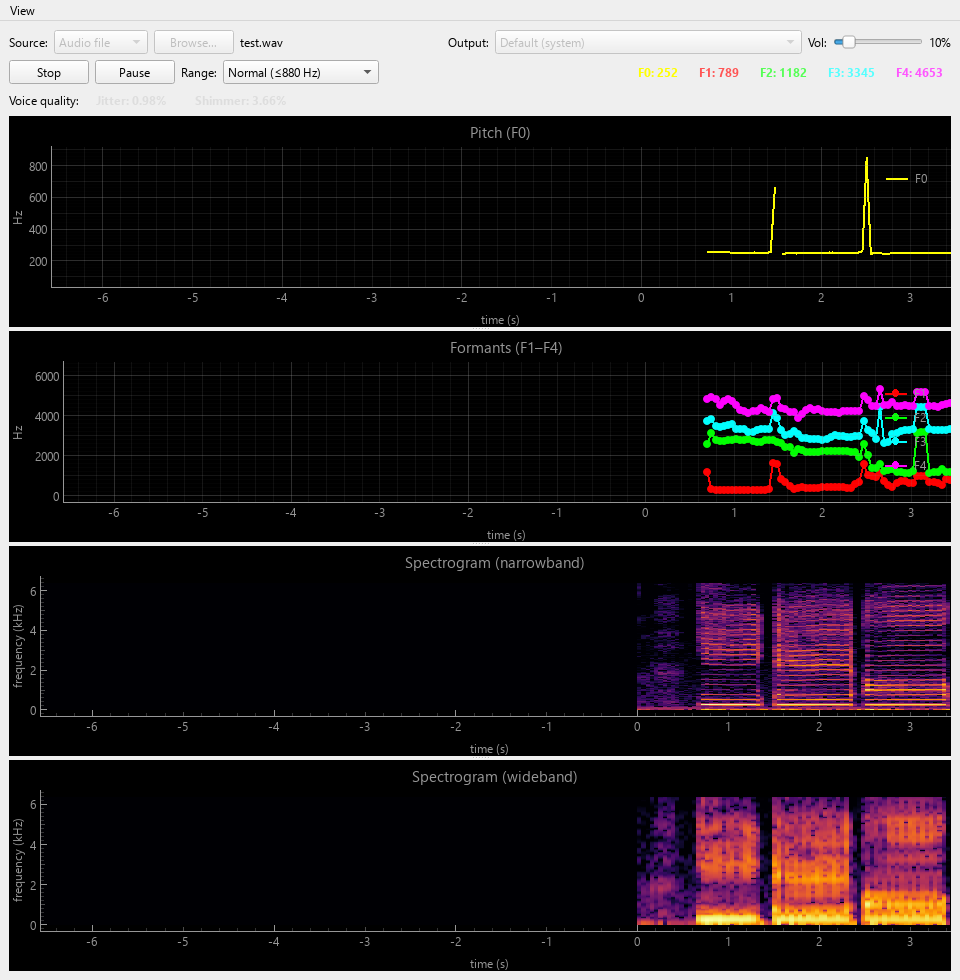
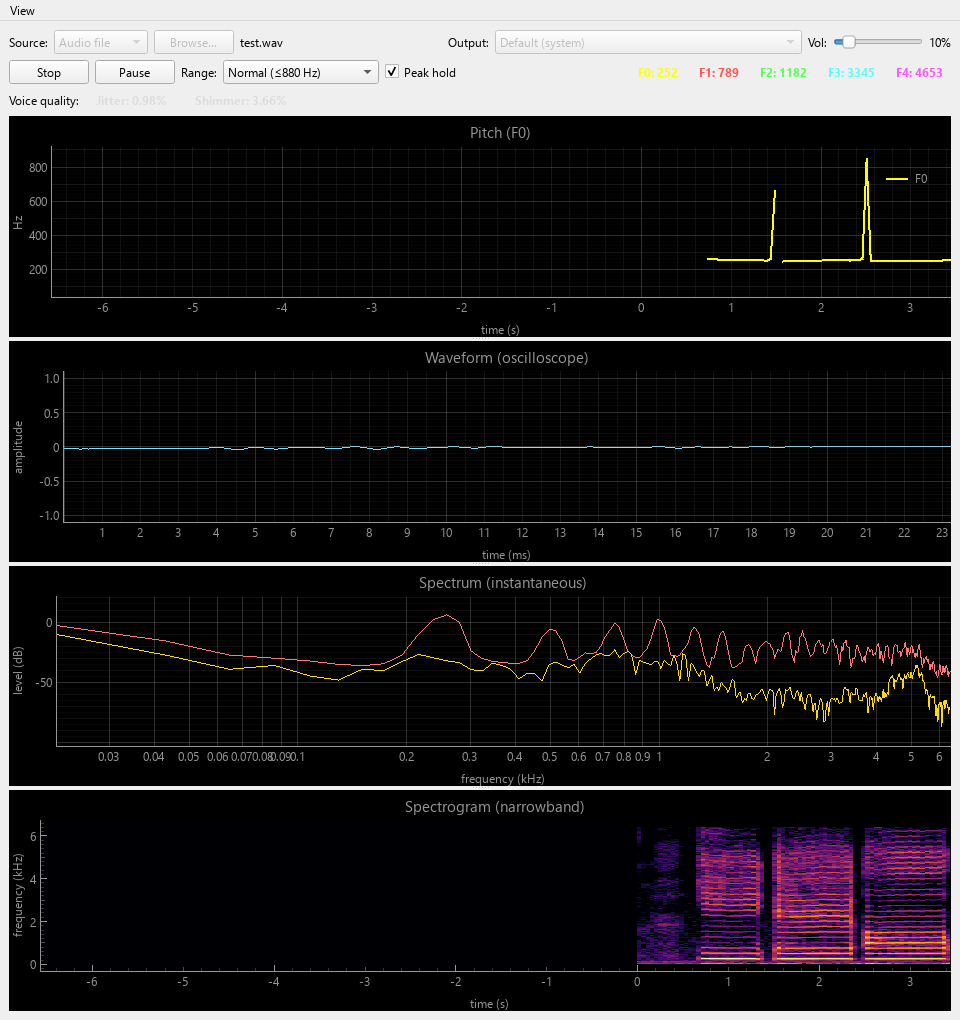
Add WaveSpectra-style oscilloscope + instantaneous spectrum views
Two new selectable panes (off by default), driven by data the pipeline already
has:
- Oscilloscope (gui/instant_plots.WaveformPlot): amplitude vs time for the most
  recent ~23 ms window. Pipeline emits a WaveformFrame per chunk.
- Instantaneous spectrum (SpectrumPlot): FFT magnitude in dB vs frequency on a
  log axis, reusing the narrowband column. Optional peak-hold trace (default on,
  toggled by a Peak hold checkbox); resets on Start. Persisted in config.
- View menu now has six panes; config gains oscilloscope/spectrum/peak_hold.
- Verifies + smokes pass; headless check confirms both panes render data
  (osc 1024 pts, spectrum 297 bins + peak-hold). Screenshot showcases them.

diff --git a/src/xvalite/gui/main_window.py b/src/xvalite/gui/main_window.py
@@ -38,7 +38,9 @@ from ..pipeline import (
     PitchSample,
     SpectrogramColumn,
     VoiceQualitySample,
+    WaveformFrame,
 )
+from .instant_plots import SpectrumPlot, WaveformPlot
 from .scrolling_plot import ScrollingPlot
 from .spectrogram_plot import SpectrogramPlot
 
@@ -56,10 +58,12 @@ EXTENDED_CEILING = 2100.0   # ~C7
 FORMANT_SERIES = [("f1", "F1", "r"), ("f2", "F2", "g"), ("f3", "F3", "c"), ("f4", "F4", "m")]
 FORMANT_Y_MAX = 6400.0
 
-# Selectable plot panes (config key, menu label).
+# Selectable plot panes (config key, menu label). Order = top→bottom in the splitter.
 PANELS = [
     ("pitch", "Pitch (F0)"),
     ("formants", "Formants (F1–F4)"),
+    ("oscilloscope", "Waveform (oscilloscope)"),
+    ("spectrum", "Spectrum (instantaneous)"),
     ("narrowband", "Spectrogram — narrowband"),
     ("wideband", "Spectrogram — wideband"),
 ]
@@ -132,10 +136,17 @@ class MainWindow(QtWidgets.QMainWindow):
             column_frequencies(self.samplerate, WIDEBAND_FFT, DEFAULT_MAX_FREQ),
             window_sec=10.0, title="Spectrogram (wideband)",
         )
+        self.osc_plot = WaveformPlot(self.samplerate)
+        self.spectrum_plot = SpectrumPlot(
+            column_frequencies(self.samplerate, NARROWBAND_FFT, DEFAULT_MAX_FREQ),
+            peak_hold=bool(self._config.get("peak_hold", True)),
+        )
 
         self._panel_widgets = {
             "pitch": self.pitch_plot,
             "formants": self.formant_plot,
+            "oscilloscope": self.osc_plot,
+            "spectrum": self.spectrum_plot,
             "narrowband": self.spectrogram_narrow,
             "wideband": self.spectrogram_wide,
         }
@@ -226,10 +237,15 @@ class MainWindow(QtWidgets.QMainWindow):
         self.mode_combo.setCurrentIndex(1 if self._ceiling >= EXTENDED_CEILING else 0)
         self.mode_combo.currentIndexChanged.connect(self._on_mode_changed)
 
+        self.peak_check = QtWidgets.QCheckBox("Peak hold")
+        self.peak_check.setToolTip("Hold the per-frequency maximum on the spectrum view")
+        self.peak_check.toggled.connect(self._on_peak_hold_toggled)
+
         row.addWidget(self.start_btn)
         row.addWidget(self.pause_btn)
         row.addWidget(QtWidgets.QLabel("Range:"))
         row.addWidget(self.mode_combo)
+        row.addWidget(self.peak_check)
         row.addStretch(1)
 
         # Numeric readout: F0 + F1–F4, color-matched to the plots.
@@ -302,6 +318,8 @@ class MainWindow(QtWidgets.QMainWindow):
         self.formant_plot.clear_data()
         self.spectrogram_narrow.clear_data()
         self.spectrogram_wide.clear_data()
+        self.osc_plot.clear_data()
+        self.spectrum_plot.clear_data()
         self._reset_vq_labels()
         self._reset_readout()
         self._timer.start()
@@ -328,9 +346,16 @@ class MainWindow(QtWidgets.QMainWindow):
                     self._set_readout(key, ev.formants[i])
             elif isinstance(ev, VoiceQualitySample):
                 self._update_voice_quality(ev.voice_quality)
+            elif isinstance(ev, WaveformFrame):
+                if self.osc_plot.isVisible():
+                    self.osc_plot.set_frame(ev.samples)
             elif isinstance(ev, SpectrogramColumn):
-                target = self.spectrogram_wide if ev.wide else self.spectrogram_narrow
-                target.append(ev.t, ev.db)
+                if ev.wide:
+                    self.spectrogram_wide.append(ev.t, ev.db)
+                else:
+                    self.spectrogram_narrow.append(ev.t, ev.db)
+                    if self.spectrum_plot.isVisible():
+                        self.spectrum_plot.set_column(ev.db)  # instantaneous spectrum
         if self.pitch_plot.isVisible():
             self.pitch_plot.refresh()
         if self.formant_plot.isVisible():
@@ -420,6 +445,10 @@ class MainWindow(QtWidgets.QMainWindow):
     def _on_device_changed(self, _index: int) -> None:
         self._save_config()
 
+    def _on_peak_hold_toggled(self, checked: bool) -> None:
+        self.spectrum_plot.set_peak_hold(checked)
+        self._save_config()
+
     def _on_source_changed(self, _index: int) -> None:
         self._sync_source_widgets()
 
@@ -437,6 +466,7 @@ class MainWindow(QtWidgets.QMainWindow):
         cfg = self._config
         self.mode_combo.setCurrentIndex(1 if cfg["range_mode"] == "extended" else 0)
         self.vol_slider.setValue(int(cfg["volume_pct"]))
+        self.peak_check.setChecked(bool(cfg.get("peak_hold", True)))
         for key, _label in PANELS:
             visible = bool(cfg["panels"].get(key, True))
             self._panel_actions[key].setChecked(visible)
@@ -460,6 +490,7 @@ class MainWindow(QtWidgets.QMainWindow):
                 "range_mode": "extended" if self._ceiling >= EXTENDED_CEILING else "normal",
                 "volume_pct": self.vol_slider.value(),
                 "panels": {k: self._panel_actions[k].isChecked() for k, _ in PANELS},
+                "peak_hold": self.peak_check.isChecked(),
                 "input_device": self.device_combo.currentText(),
                 "output_device": self.output_combo.currentText(),
             }

diff --git a/src/xvalite/gui/instant_plots.py b/src/xvalite/gui/instant_plots.py
@@ -1,0 +1,81 @@
+"""Instant (non-scrolling) views, à la WaveSpectra.
+
+* ``WaveformPlot`` — oscilloscope: amplitude vs time for the most recent window.
+* ``SpectrumPlot`` — instantaneous FFT magnitude (dB) vs frequency, log X axis,
+  with an optional peak-hold trace.
+
+Both replace their data each refresh (they show "now", not a scrolling history).
+"""
+
+from __future__ import annotations
+
+import numpy as np
+import pyqtgraph as pg
+
+
+class WaveformPlot(pg.PlotWidget):
+    def __init__(self, samplerate: int, window_size: int = 1024, parent=None) -> None:
+        super().__init__(parent=parent)
+        self.samplerate = samplerate
+        self.setTitle("Waveform (oscilloscope)")
+        self.setLabel("left", "amplitude")
+        self.setLabel("bottom", "time", units="ms")
+        self.setYRange(-1.0, 1.0)
+        self.showGrid(x=True, y=True, alpha=0.3)
+        self._curve = self.plot(pen=pg.mkPen("#7fdfff", width=1))
+        self._x = np.arange(window_size) / samplerate * 1000.0
+        self.setXRange(0.0, float(self._x[-1]) if self._x.size else 1.0, padding=0)
+
+    def set_frame(self, samples: np.ndarray) -> None:
+        n = samples.size
+        x = self._x[:n] if n <= self._x.size else np.arange(n) / self.samplerate * 1000.0
+        self._curve.setData(x, samples)
+
+    def clear_data(self) -> None:
+        self._curve.setData([], [])
+
+
+class SpectrumPlot(pg.PlotWidget):
+    def __init__(self, freqs: np.ndarray, peak_hold: bool = True, parent=None) -> None:
+        super().__init__(parent=parent)
+        self.setTitle("Spectrum (instantaneous)")
+        self.setLabel("left", "level", units="dB")
+        self.setLabel("bottom", "frequency", units="Hz")
+        self.setLogMode(x=True, y=False)  # log frequency axis (WaveSpectra style)
+        self.showGrid(x=True, y=True, alpha=0.3)
+
+        f = np.asarray(freqs, dtype=float)
+        self._mask = f > 0.0  # drop the DC bin (log axis can't show 0 Hz)
+        self._freqs = f[self._mask]
+        self._peak_hold = peak_hold
+        self._peak: np.ndarray | None = None
+        self._gmax = -60.0
+
+        self._peak_curve = self.plot(pen=pg.mkPen("#ff7777", width=1))  # dim peak-hold
+        self._cur_curve = self.plot(pen=pg.mkPen("#ffdd00", width=1))   # current
+        if self._freqs.size:
+            lo = np.log10(max(20.0, self._freqs[0]))
+            self.setXRange(lo, np.log10(self._freqs[-1]), padding=0)
+
+    def set_peak_hold(self, on: bool) -> None:
+        self._peak_hold = on
+        if not on:
+            self._peak = None
+            self._peak_curve.setData([], [])
+
+    def set_column(self, db: np.ndarray) -> None:
+        d = np.asarray(db, dtype=float)[self._mask]
+        self._cur_curve.setData(self._freqs, d)
+        peak_now = float(np.max(d)) if d.size else self._gmax
+        if peak_now > self._gmax:
+            self._gmax = peak_now
+        self.setYRange(self._gmax - 100.0, self._gmax + 6.0)
+        if self._peak_hold:
+            self._peak = d if self._peak is None else np.maximum(self._peak, d)
+            self._peak_curve.setData(self._freqs, self._peak)
+
+    def clear_data(self) -> None:
+        self._peak = None
+        self._gmax = -60.0
+        self._cur_curve.setData([], [])
+        self._peak_curve.setData([], [])

diff --git a/src/xvalite/pipeline.py b/src/xvalite/pipeline.py
@@ -110,7 +110,20 @@ class SpectrogramColumn:
     wide: bool = False
 
 
-Event = Union[PitchSample, FormantSample, VoiceQualitySample, SpectrogramColumn]
+@dataclass(frozen=True)
+class WaveformFrame:
+    """Recent time-domain samples for an oscilloscope view (chunk rate)."""
+
+    t: float
+    samples: np.ndarray
+
+
+Event = Union[
+    PitchSample, FormantSample, VoiceQualitySample, SpectrogramColumn, WaveformFrame
+]
+
+# Oscilloscope window: most recent samples shown as the time-domain waveform.
+WAVEFORM_WINDOW = 1024  # ~23 ms @ 44.1 kHz
 
 
 class AnalysisPipeline:
@@ -170,6 +183,7 @@ class AnalysisPipeline:
         self._latest_vq: Optional[VoiceQualitySample] = None
         self._latest_spec_narrow: Optional[SpectrogramColumn] = None
         self._latest_spec_wide: Optional[SpectrogramColumn] = None
+        self._latest_waveform: Optional[WaveformFrame] = None
 
         self._thread: Optional[threading.Thread] = None
         self._stop = threading.Event()
@@ -244,6 +258,10 @@ class AnalysisPipeline:
         with self._lock:
             return self._latest_spec_wide if wide else self._latest_spec_narrow
 
+    def latest_waveform(self) -> Optional[WaveformFrame]:
+        with self._lock:
+            return self._latest_waveform
+
     # -- worker ------------------------------------------------------------
     def _run(self) -> None:
         buffer = np.zeros(0, dtype=np.float32)
@@ -272,6 +290,9 @@ class AnalysisPipeline:
             total += chunk.size
             buffer = np.concatenate([buffer, chunk])[-self._keep :]
             t = total / self.samplerate
+
+            # Oscilloscope frame (cheap; emitted every chunk).
+            self._emit(WaveformFrame(t, buffer[-WAVEFORM_WINDOW:].copy()))
 
             # Analysis errors on a bad window should skip that chunk, not kill
             # the worker. Parselmouth's formant/VQ calls already guard internally.
@@ -333,6 +354,8 @@ class AnalysisPipeline:
                 self._latest_formant = event
             elif isinstance(event, VoiceQualitySample):
                 self._latest_vq = event
+            elif isinstance(event, WaveformFrame):
+                self._latest_waveform = event
             elif event.wide:
                 self._latest_spec_wide = event
             else:

diff --git a/scripts/make_screenshot.py b/scripts/make_screenshot.py
@@ -33,10 +33,12 @@ def main() -> int:
     # renders instead of tofu boxes.
     app.setFont(QtGui.QFont("Segoe UI", 9))
     window = MainWindow(samplerate=DEFAULT_SAMPLERATE, initial_file=PATH)
-    # Show all four panes for the README (wideband is off by default).
-    for key in ("pitch", "formants", "narrowband", "wideband"):
-        window._panel_actions[key].setChecked(True)
-    window.resize(960, 980)
+    # Curated panes for the README: F0 + the two WaveSpectra-style views +
+    # a spectrogram (showcases breadth without all six panes).
+    shown = {"pitch", "oscilloscope", "spectrum", "narrowband"}
+    for key, action in window._panel_actions.items():
+        action.setChecked(key in shown)
+    window.resize(960, 1020)
     window.show()
     window.start()
 

diff --git a/src/xvalite/config.py b/src/xvalite/config.py
@@ -24,9 +24,12 @@ DEFAULTS: Dict[str, Any] = {
     "panels": {                      # which plot panes are visible
         "pitch": True,
         "formants": True,
+        "oscilloscope": False,
+        "spectrum": False,
         "narrowband": True,
         "wideband": False,
     },
+    "peak_hold": True,               # spectrum view peak-hold trace
     "input_device": None,            # combo label of the chosen device, or None
     "output_device": None,
 }

diff --git a/CLAUDE.md b/CLAUDE.md
@@ -116,8 +116,9 @@ binaries (libsndfile, PortAudio, the Praat extension). Verified to launch;
   - `pipeline.py` — `AnalysisPipeline`: ties a source to the analysis layer on a
     background thread. Cadences: F0 per chunk, formants per chunk (~21 Hz), narrowband +
     wideband spectrogram per chunk (`SpectrogramColumn.wide`), jitter/shimmer once/sec.
-    Results via `drain()` (FIFO of `PitchSample`/`FormantSample`/`VoiceQualitySample`/
-    `SpectrogramColumn`) and `latest_pitch()`/
+    Plus an oscilloscope `WaveformFrame` per chunk. Results via `drain()` (FIFO of
+    `PitchSample`/`FormantSample`/`VoiceQualitySample`/`SpectrogramColumn`/`WaveformFrame`)
+    and `latest_pitch()`/
     `latest_formant()`/`latest_voice_quality()`. Start-time source failures raise out of
     `start()`; mid-stream source failures set `pipeline.error` and finish; per-chunk
     analysis errors skip that chunk.
@@ -135,13 +136,17 @@ binaries (libsndfile, PortAudio, the Praat extension). Verified to launch;
   - `gui/spectrogram_plot.py` — `SpectrogramPlot`: scrolling waterfall (ImageItem +
     inferno colormap); 2-D dB buffer scrolls left, levels auto-track the peak. One
     instance each for narrowband and wideband.
+  - `gui/instant_plots.py` — `WaveformPlot` (oscilloscope, amplitude vs time) and
+    `SpectrumPlot` (instantaneous FFT, log freq axis, optional peak-hold). WaveSpectra-style
+    "now" views; replace their data each tick rather than scrolling.
   - `gui/main_window.py` — `MainWindow`: owns the pipeline lifecycle. Source row
     (Microphone + input-device dropdown / Audio file + Browse… + output-device dropdown +
     volume slider) → Start builds source+pipeline; QTimer polls
     `pipeline.drain()` → pitch plot (F0) + formant plot (F1–F4, markers); Pause/Resume →
     `pipeline.pause/resume`; Range dropdown toggles F0 ceiling Normal (880 Hz/A5) ↔
-    Extended (2100 Hz/C7) live (default Normal). View menu toggles the four panes
-    (pitch / formants / narrowband / wideband). Numeric readout shows F0 + F1–F4
+    Extended (2100 Hz/C7) live (default Normal). View menu toggles six panes
+    (pitch / formants / oscilloscope / spectrum / narrowband / wideband); Peak-hold
+    checkbox for the spectrum view. Numeric readout shows F0 + F1–F4
     (color-matched). Voice-quality panel shows jitter/shimmer, red with ⚠ above the fixed
     thresholds (NaN/silence → "--"). File end auto-stops the controls. UI prefs persist via
     `config.py`.

diff --git a/Handoff.md b/Handoff.md
@@ -109,6 +109,8 @@
 | 2026-06-03 | Claude Code (Opus 4.8) | ビルドスクリプトをcwd非依存に修正（PSScriptRoot基準、失敗時throw）。マイク入力デバイス選択ドロップダウン追加（`list_input_devices`、既定=システム既定、マイク選択時のみ表示） |
 | 2026-06-03 | Claude Code (Opus 4.8) | ファイル再生機能追加: `FileInput`が出力デバイスへ再生（出力デバイス選択＋音量スライダー既定10%、ライブ調整）。pauseで再生も停止（pipeline→source.pause転送）。出力失敗時は無音フォールバック。スクショ更新 |
 | 2026-06-03 | Claude Code (Opus 4.8) | フォルマント/SG表示を6400Hzへ拡張（Burg ceilingも6400）。広帯域SG追加（窓256）＋Viewメニューで4ペイン表示切替。ピッチ既定をNormalに。設定永続化(`config.py`, JSON, `XVALITE_CONFIG_DIR`で上書き可)。全検証合格・config往復確認 |
+| 2026-06-03 | Claude Code (Opus 4.8) | Splitterのパネル潰れ修正（collapsible無効＋最小高さ＋表示時に均等再配分） |
+| 2026-06-03 | Claude Code (Opus 4.8) | WaveSpectra相当の2ビュー追加: オシロスコープ(`WaveformFrame`)＋瞬時スペクトラム(対数軸・ピークホールド、`gui/instant_plots`)。Viewメニューは計6ペインに。peak_holdも設定永続化。スクショ更新・全検証合格 |
 
 ### 技術メモ: フォルマント分析の高速化余地
 - 現状フォルマントとJitter/Shimmerは同じ1秒カデンス(`SlowSample`)に束ねている。1秒は要件上の選択で技術的限界ではない。

diff --git a/README.md b/README.md
@@ -36,7 +36,9 @@
 - **フォルマント表示** — F1〜F4 をスクロール式グラフ（約21 Hz 更新）と数値で表示。
 - **声質モニタ** — Jitter / Shimmer を1秒ごとに算出し、閾値超過で警告表示。
 - **スペクトログラム（狭帯域／広帯域）** — スクロール式ウォーターフォール。狭帯域は倍音が横縞に、広帯域はフォルマント帯が見えます。
-- **表示パネルのカスタマイズ** — View メニューでピッチ／フォルマント／狭帯域SG／広帯域SGの表示をそれぞれ切替。
+- **オシロスコープ（時間波形）** — 入力波形をリアルタイム表示。
+- **瞬時スペクトラム（FFT）** — 対数周波数軸で今この瞬間の周波数成分を折れ線表示。ピークホールド対応。
+- **表示パネルのカスタマイズ** — View メニューで6種（ピッチ／フォルマント／オシロ／瞬時スペクトラム／狭帯域SG／広帯域SG）の表示をそれぞれ切替。
 - **設定の保存** — レンジ・音量・表示パネル・デバイス選択を保存し、次回起動時に復元。
 - フォルマント／スペクトログラムの表示は **6.4 kHz** まで対応。
 - **入力ソース** — マイク入力／音声ファイル入力（同一パイプラインを実時間再生で解析）。
